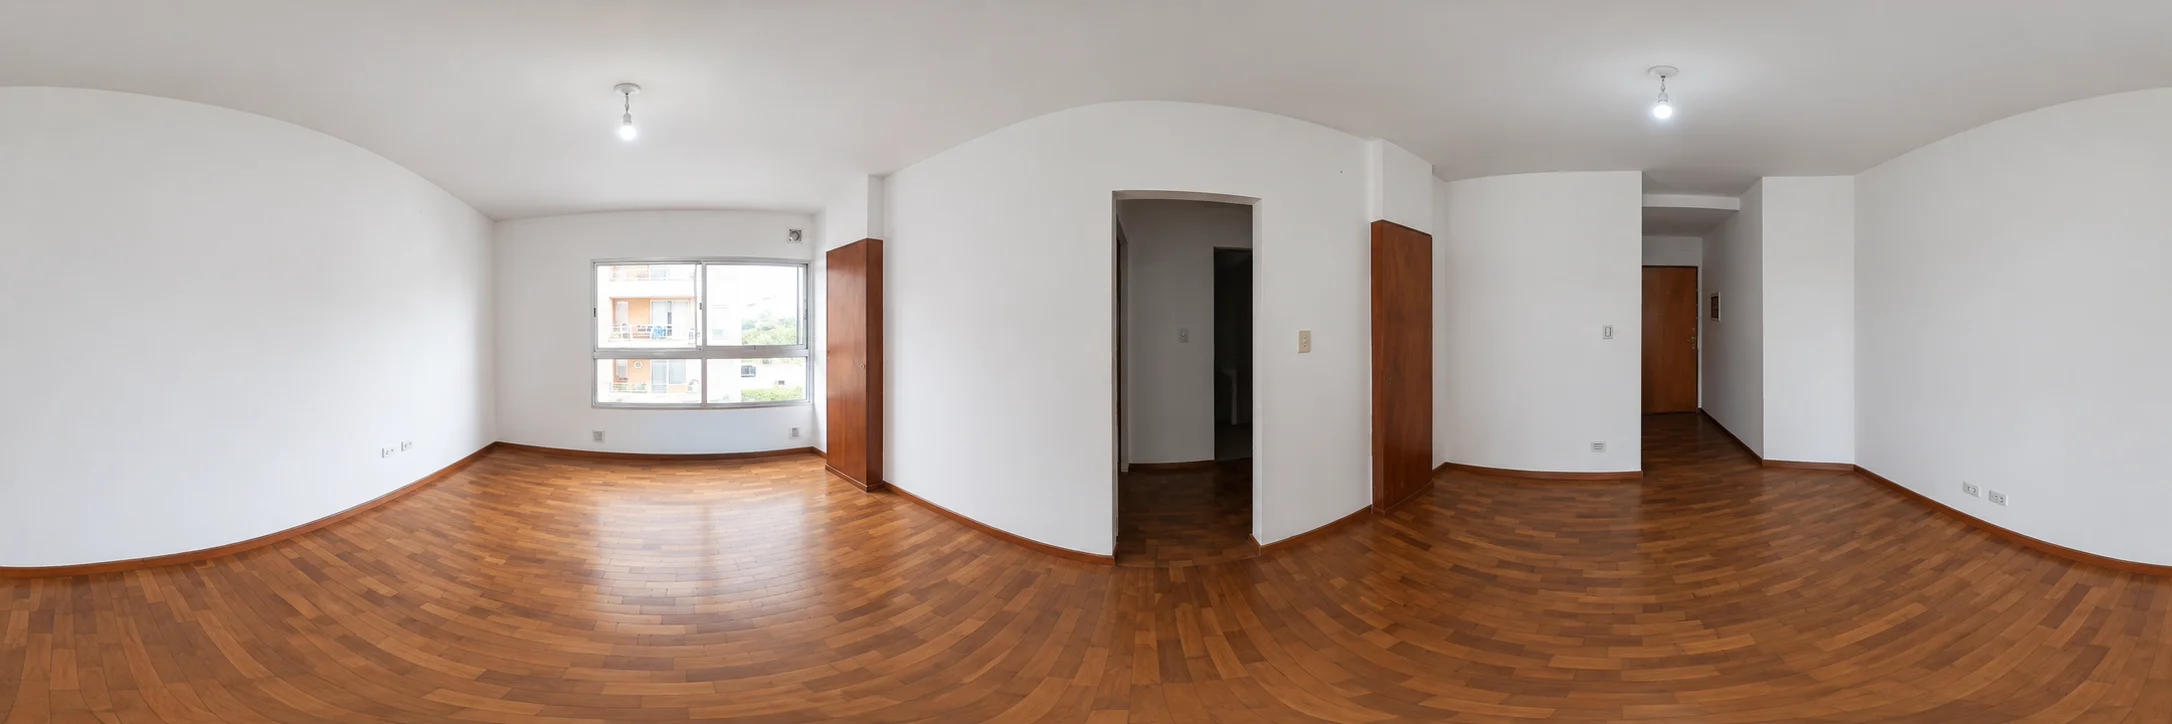
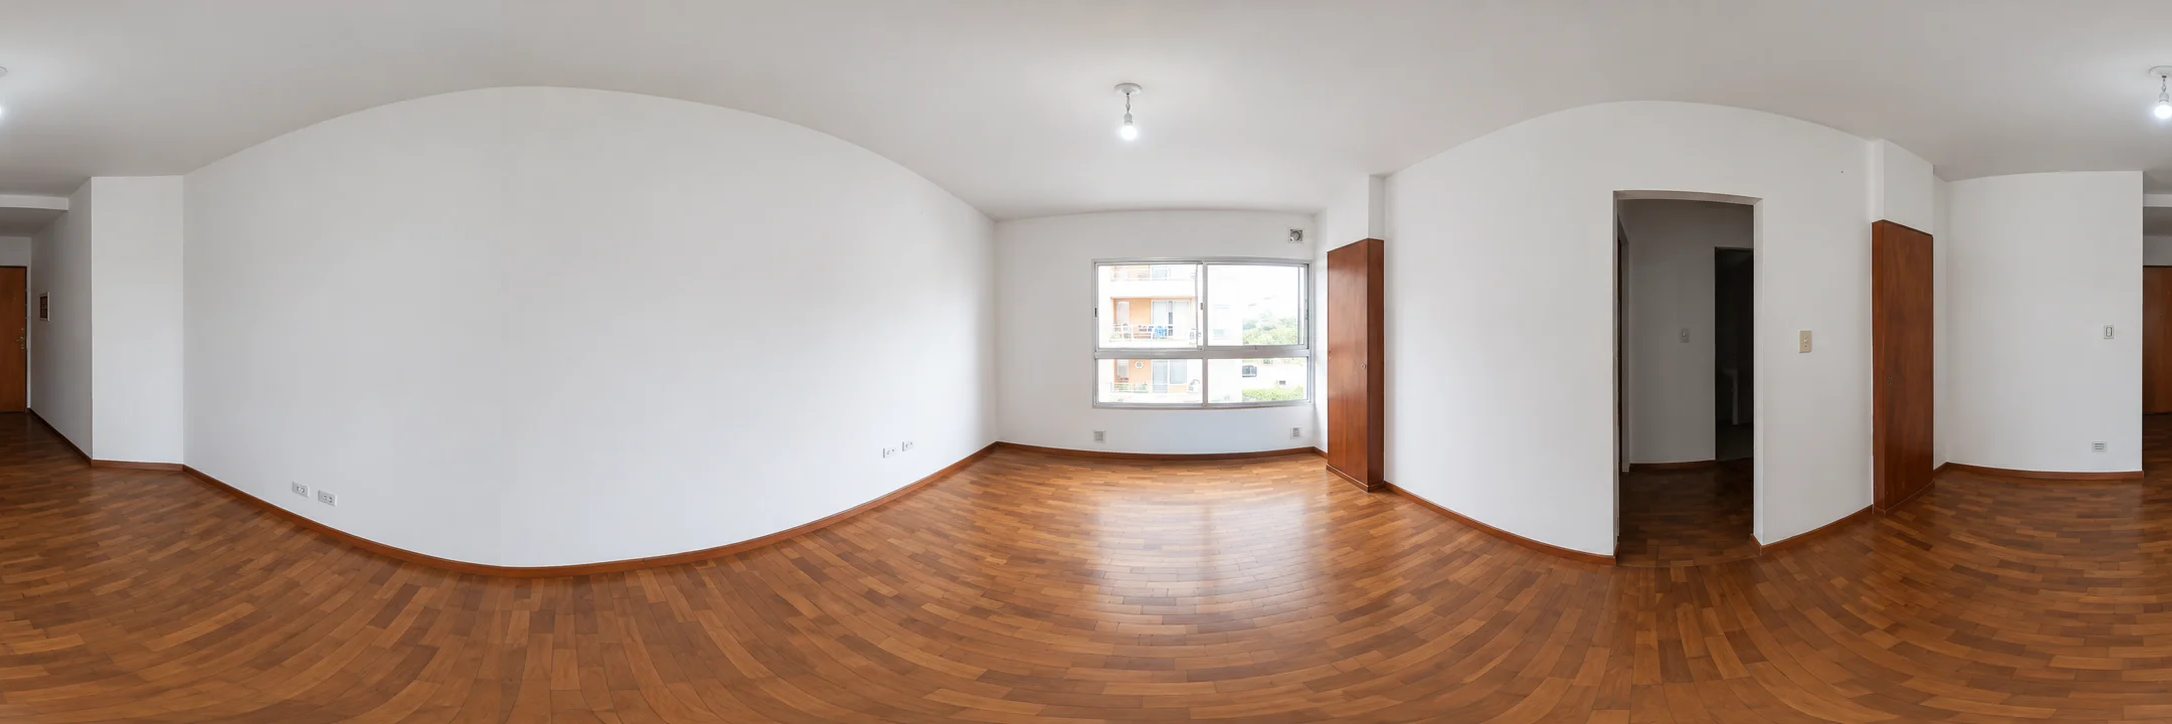
cambio de imagenes living a otras desplazadas y botones en esquina superior derecha

diff --git a/src/styles/index.css b/src/styles/index.css
@@ -93,10 +93,10 @@ body,
  * area so it's actually usable at that size.
  */
 .floor-plan-panel {
-  position: fixed;
+  /* position: fixed;
   bottom: 4.5rem;
   right: 1rem;
-  z-index: 30; /* above the panorama, below the rotate-device prompt (z-50) */
+  z-index: 30;  *//* above the panorama, below the rotate-device prompt (z-50) */
   overflow: hidden;
   border-radius: 0.75rem;
   border: 1px solid rgba(255, 255, 255, 0.25);
@@ -108,14 +108,14 @@ body,
 }
 
 .floor-plan-panel--mobile {
-  width: min(70vw, 13rem);
-  height: min(70vw, 13rem);
+  width: min(60vw, 11rem);
+  height: min(60vw, 11rem);
 }
 
 /* Always-visible label above each floor plan point. */
 .floor-plan-label {
   fill: #ffffff;
-  font-size: 4.2px;
+  font-size: 5.2px;
   font-weight: 700;
   paint-order: stroke fill;
   stroke: rgba(15, 23, 42, 0.85);
@@ -155,4 +155,68 @@ body,
   100% {
     filter: drop-shadow(0 0 0 rgba(251, 146, 60, 0));
   }
+}
+
+/*
+ * Restyle Pannellum's built-in orientation/VR button (icon-only by
+ * default, drawn from a CSS sprite) to match our own pill-shaped
+ * buttons, and add a text label since Pannellum doesn't provide one.
+ * `!important` guards against Pannellum's own stylesheet winning the
+ * cascade regardless of CSS import order.
+ */
+.pnlm-orientation-button {
+  position: fixed !important;
+  top: 1rem;
+  right: 1rem;
+  z-index: 40;
+  width: auto !important;
+  height: auto !important;
+  /* margin-top: 0; */
+  padding: 8px 16px;
+  display: flex;
+  align-items: center;
+  justify-content: center;
+  background-image: none !important;
+  background-color: rgba(2, 6, 23, 0.8);
+  border: none !important;
+  border-radius: 9999px;
+  backdrop-filter: blur(4px);
+  /* box-shadow: 0 4px 12px rgba(0, 0, 0, 0.3); */
+  color: #fff;
+  font-family: inherit;
+  font-size: 0.875rem;
+  font-weight: 500;
+}
+
+.pnlm-orientation-button::after {
+  content: 'Giroscopio';
+  white-space: nowrap;
+}
+
+.pnlm-orientation-button:hover {
+  background-color: rgba(2, 6, 23, 0.9);
+}
+
+/* Active state (gyroscope currently on) - accent color so it's clear
+   it's toggled, same accent used for the current-room floor plan point. */
+.pnlm-orientation-button.pnlm-orientation-button-active {
+  background-color: rgba(251, 146, 60, 0.85);
+}
+
+/* Vertical stack for our own controls (top-right). Reserves space for
+   Pannellum's own orientation button above it on devices where it
+   appears - see isMobileUserAgent() usage in Tour.tsx. */
+.tour-controls-stack {
+  position: fixed;
+  top: 1rem;
+  right: 1rem;
+  z-index: 40;
+  display: flex;
+  flex-direction: column;
+  align-items: flex-end;
+  gap: 0.6rem;
+}
+
+.tour-controls-stack--below-gyroscope {
+  top: 4rem;
 }

diff --git a/src/pages/Tour.tsx b/src/pages/Tour.tsx
@@ -22,11 +22,15 @@ export default function Tour(): JSX.Element {
   const canFurnish = baseRoomId ? hasFurnishedVariant(baseRoomId) : false;
 
   const floorPlanSizeClass = isMobileUserAgent() ? 'floor-plan-panel--mobile' : '';
-  const floorPlanVisibilityClass = isPlanOpen ? 'block' : 'hidden';
 
   const handleSelectRoom = (roomId: RoomId) => {
     viewerRef.current?.loadScene(roomId);
   };
+  const isMobile = isMobileUserAgent();
+
+  const controlsStackClass = isMobile
+    ? 'tour-controls-stack tour-controls-stack--below-gyroscope'
+    : 'tour-controls-stack';
 
   const handleToggleFurniture = () => {
     const viewer = viewerRef.current;
@@ -44,13 +48,15 @@ export default function Tour(): JSX.Element {
     <div className="relative h-dvh w-dvw overflow-hidden bg-black">
       <PanoramaViewer containerRef={containerRef} />
       <RotateDevicePrompt visible={isPortraitPhone} />
-      <FloorPlan
-        currentRoomId={baseRoomId}
-        onSelectRoom={handleSelectRoom}
-        className={`${floorPlanSizeClass} ${floorPlanVisibilityClass}`}
-      />
-      <FloorPlanToggle isOpen={isPlanOpen} onToggle={() => setIsPlanOpen((open) => !open)} />
-      {canFurnish && <FurnitureToggle isFurnished={isFurnished} onToggle={handleToggleFurniture} />}
+      <div className={controlsStackClass}>
+        {canFurnish && <FurnitureToggle isFurnished={isFurnished} onToggle={handleToggleFurniture} />}
+        <FloorPlanToggle isOpen={isPlanOpen} onToggle={() => setIsPlanOpen((open) => !open)} />
+        <FloorPlan
+          currentRoomId={baseRoomId}
+          onSelectRoom={handleSelectRoom}
+          className={`${floorPlanSizeClass} ${isPlanOpen ? 'block' : 'hidden'}`}
+        />
+      </div>
     </div>
   );
 }

diff --git a/src/data/roomsConfig.ts b/src/data/roomsConfig.ts
@@ -68,10 +68,10 @@ const ROOM_INITIAL_VIEW: Record<RoomId, { yaw: number; pitch: number }> = {
  */
 const ROOM_HOTSPOTS: Record<RoomId, Room['hotspots']> = {
   [ROOM_IDS.living]: [
-    { target: ROOM_IDS.banio, yaw: 16, pitch: 0, label: ROOM_TITLES[ROOM_IDS.banio] },
-    { target: ROOM_IDS.dormitorio1, yaw: 16, pitch: -17, label: ROOM_TITLES[ROOM_IDS.dormitorio1] },
-    { target: ROOM_IDS.dormitorio2, yaw: 16, pitch: 17, label: ROOM_TITLES[ROOM_IDS.dormitorio2] },
-    { target: ROOM_IDS.cocina, yaw: 92, pitch: 5, label: ROOM_TITLES[ROOM_IDS.cocina] },
+    { target: ROOM_IDS.banio, yaw: 100, pitch: 0, label: ROOM_TITLES[ROOM_IDS.banio] },
+    { target: ROOM_IDS.dormitorio1, yaw: 100, pitch: -17, label: ROOM_TITLES[ROOM_IDS.dormitorio1] },
+    { target: ROOM_IDS.dormitorio2, yaw: 100, pitch: 17, label: ROOM_TITLES[ROOM_IDS.dormitorio2] },
+    { target: ROOM_IDS.cocina, yaw: 175, pitch: 5, label: ROOM_TITLES[ROOM_IDS.cocina] },
   ],
   [ROOM_IDS.banio]: [
     { target: ROOM_IDS.living, yaw: 74, pitch: 0, label: ROOM_TITLES[ROOM_IDS.living] },

diff --git a/src/components/FloorPlanToggle.tsx b/src/components/FloorPlanToggle.tsx
@@ -17,7 +17,7 @@ export default function FloorPlanToggle({ isOpen, onToggle }: FloorPlanTogglePro
       onClick={onToggle}
       aria-pressed={isOpen}
       aria-label={isOpen ? 'Ocultar plano' : 'Mostrar plano'}
-      className="cursor-pointer fixed bottom-4 right-4 z-40 rounded-full bg-slate-950/80 px-4 py-2 text-sm font-medium text-white shadow-lg backdrop-blur"
+      className="cursor-pointer rounded-full bg-slate-950/80 px-4 py-2 text-sm font-medium text-white shadow-lg backdrop-blur"
     >
       Plano
     </button>

diff --git a/src/components/FurnitureToggle.tsx b/src/components/FurnitureToggle.tsx
@@ -12,7 +12,7 @@ export default function FurnitureToggle({ isFurnished, onToggle }: FurnitureTogg
       type="button"
       onClick={onToggle}
       aria-pressed={isFurnished}
-      className="cursor-pointer fixed top-4 right-4 z-40 rounded-full bg-slate-950/80 px-4 py-2 text-sm font-medium text-white shadow-lg backdrop-blur"
+      className="cursor-pointer rounded-full bg-slate-950/80 px-4 py-2 text-sm font-medium text-white shadow-lg backdrop-blur"
     >
       {isFurnished ? 'Original' : 'Amueblar'}
     </button>
